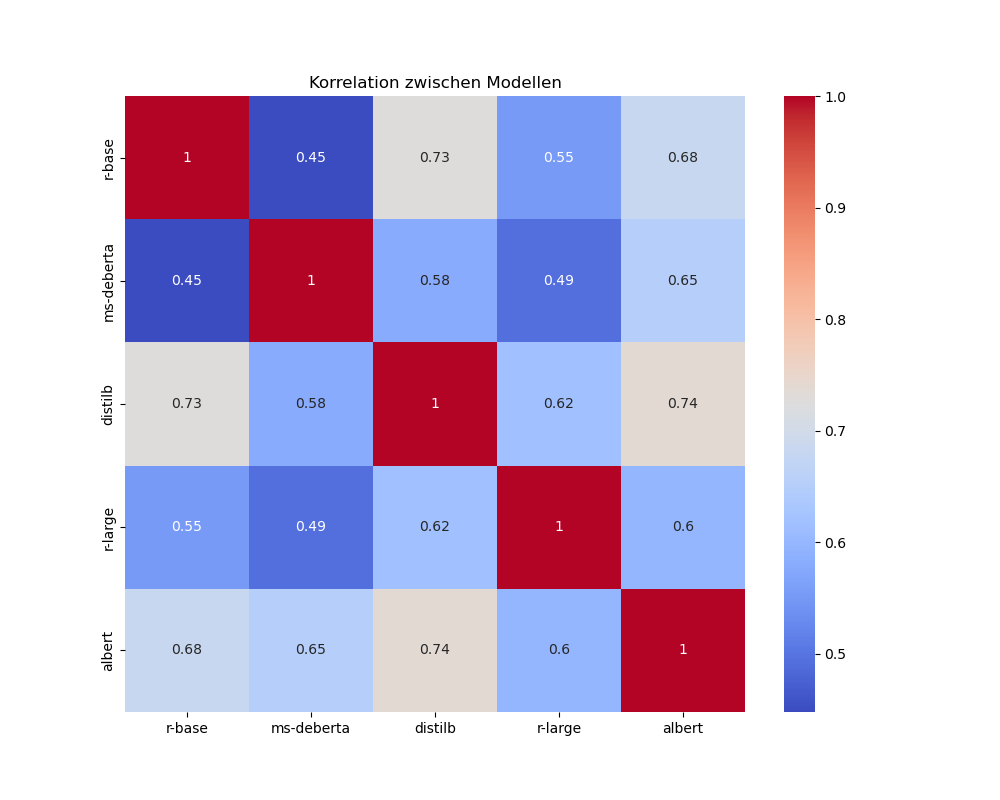
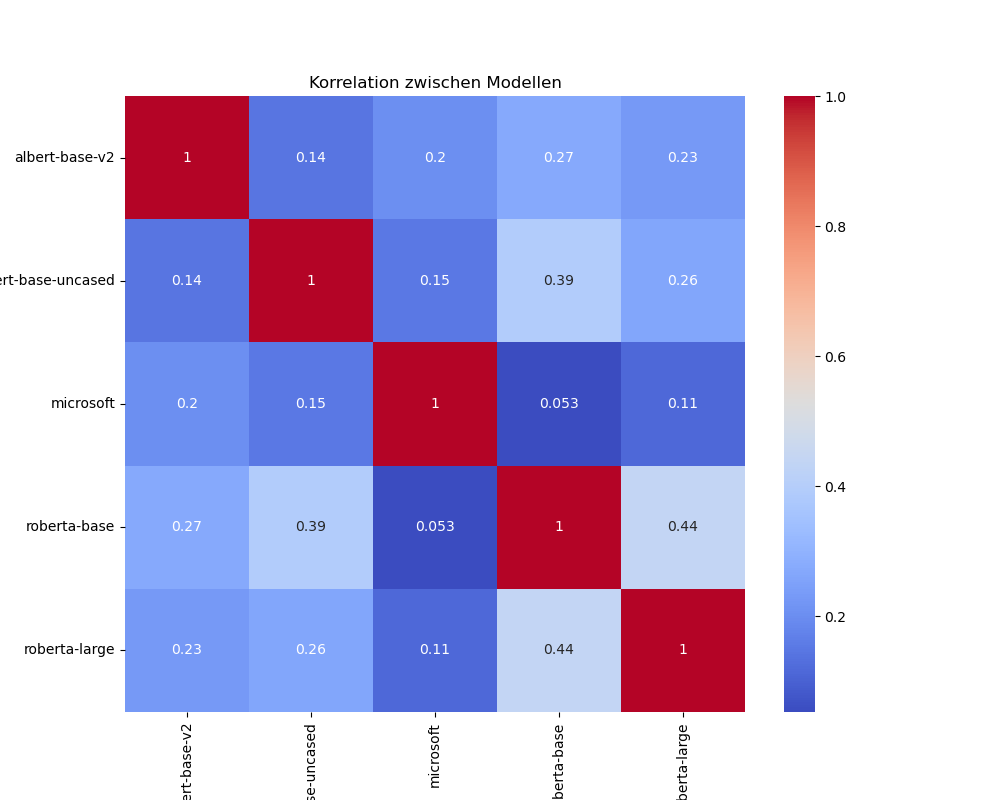
analyze_models_R1.py und consolidate_results.py erstellt und getestet

diff --git a/output/241016 Analyse Models Ausgabe 241016-22h04-Results.md b/output/241016 Analyse Models Ausgabe 241016-22h04-Results.md
@@ -1,0 +1,76 @@
+# 241016 Analyse Models Ausgabe 241016-22h04-Results.md
+## Deskriptive Statistik:
+       albert-base-v2  distilbert-base-uncased  microsoft  roberta-base  roberta-large  Mittelwert
+count         6808.00                  6808.00    6808.00       6808.00        6808.00     6808.00
+mean             2.16                     2.48       1.21          4.46          23.46        6.51
+std             12.56                     8.68       9.45         17.74          39.44       12.04
+min              0.00                     0.00       0.00          0.00           0.00        0.00
+25%              0.00                     0.00       0.00          0.00           0.00        0.00
+50%              0.00                     1.00       0.00          0.00           0.00        0.00
+75%              0.00                     1.00       0.00          0.00          30.00        9.00
+max             99.00                    99.00      99.00         99.00         100.00       99.00
+
+
+## Korrelationsmatrix:
+                         albert-base-v2  distilbert-base-uncased  microsoft  roberta-base  roberta-large
+albert-base-v2                     1.00                     0.14       0.20          0.27           0.23
+distilbert-base-uncased            0.14                     1.00       0.15          0.39           0.26
+microsoft                          0.20                     0.15       1.00          0.05           0.11
+roberta-base                       0.27                     0.39       0.05          1.00           0.44
+roberta-large                      0.23                     0.26       0.11          0.44           1.00
+
+
+## Prozentsatz der konsistenten Vorhersagen: 69.33%
+
+
+## Interessante Fälle (große Diskrepanz zwischen Modellen):
+### Dokument: 59XXXX — HCO Bulletin — Page 2 Only  [B023-249].txt
+  albert-base-v2            22
+  distilbert-base-uncased            4
+  microsoft         98
+  roberta-base      66
+  roberta-large     99
+
+### Dokument: 5304XX — HCO Bulletin — Admiration Processing  [B017-015].txt
+  albert-base-v2            99
+  distilbert-base-uncased           12
+  microsoft         93
+  roberta-base       1
+  roberta-large     99
+
+### Dokument: 560803 — HCO Bulletin — Organizational Health Chart  [B033-012].txt
+  albert-base-v2            90
+  distilbert-base-uncased            1
+  microsoft          1
+  roberta-base      34
+  roberta-large     99
+
+### Dokument: 560912 — HCO Technical Bulletin — Summary of a Bulletin from the Academy in Washington, DC, Concerning Training, The  [B020-016].txt
+  albert-base-v2             0
+  distilbert-base-uncased            1
+  microsoft          0
+  roberta-base      92
+  roberta-large     67
+
+### Dokument: 560920 — HCO Processing Sheet — HCO Processing Sheet  [B020-017].txt
+  albert-base-v2             0
+  distilbert-base-uncased            1
+  microsoft          0
+  roberta-base      19
+  roberta-large     99
+
+## Modellperformanz-Übersicht:
+        albert-base-v2  distilbert-base-uncased  microsoft  roberta-base  roberta-large  Mittelwert
+mean              2.16                     2.48       1.21          4.46          23.46        6.51
+median            0.00                     1.00       0.00          0.00           0.00        0.00
+std              12.56                     8.68       9.45         17.74          39.44       12.04
+min               0.00                     0.00       0.00          0.00           0.00        0.00
+max              99.00                    99.00      99.00         99.00         100.00       99.00
+## Prozentsatz der Dokumente über Schwellenwerten:
+Threshold   albert-base-v2distilbert-base-uncased   microsoftroberta-baseroberta-large  Mittelwert
+------------------------------------------------------------------------------------
+>50%                1.81        1.03        1.07        4.19       23.16        1.22
+>60%                1.69        0.87        1.00        3.69       22.31        0.25
+>70%                1.62        0.60        0.87        3.26       21.43        0.09
+>80%                1.45        0.43        0.81        2.82       20.48        0.04
+>90%                1.25        0.24        0.68        2.13       18.79        0.04
